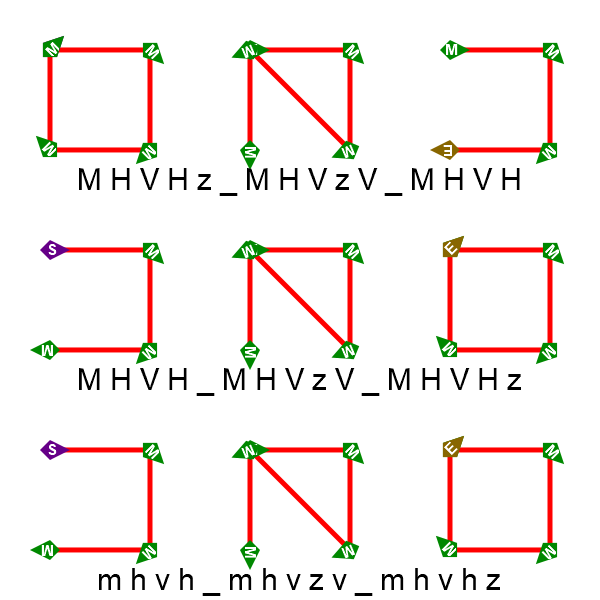
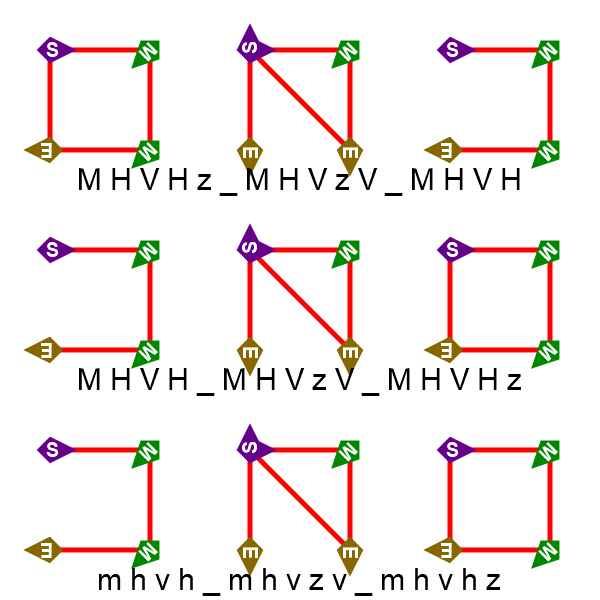
Adding tests & renaming for clarity

diff --git a/sahara/node_vertices_tests/_convert.py b/sahara/node_vertices_tests/_convert.py
@@ -1,17 +1,8 @@
 import glob
 import os
-import importlib.util
-import _show_node_vertices
-
-def import_url(name, url):
-	# https://stackoverflow.com/questions/67631/how-to-import-a-module-given-the-full-path
-	spec = importlib.util.spec_from_file_location(name, url)
-	mod = importlib.util.module_from_spec(spec)
-	spec.loader.exec_module(mod)
-	return mod
 
 image = input('Input image(s): ')
-scripts = input('Scripts [iksv]: ').lower() or 'iksv'
+scripts = input('Scripts [ikmsv]: ').lower() or 'ikmsv'
 if not image:
 	images = glob.glob('*.svg')
 else:
@@ -25,23 +16,25 @@ repo_base = '../../'
 ## Inkscape
 if 'i' in scripts:
 	for image in images:
-		os.system('inkscape --export-png="' + os.path.splitext(image)[0] + '-ink.png" "' + image + '"')
+		os.system('inkscape --export-png="{}" "{}"'.format(os.path.splitext(image)[0] + '-ink.png', image))
 
-## CairoSVG master branch (synced with Kozea/CairoSVG)
+## Kozea/CairoSVG current version
 if 'k' in scripts:
-	cairosvg = import_url('cairosvg', repo_base + '../CairoSVG-kozea/cairosvg/__init__.py')
-	for image in images:
-		out = os.path.splitext(image)[0] + '-kozea.png'
-		cairosvg.svg2png(url=image, write_to=out)
+	csvg_path = os.path.abspath(repo_base + '../CairoSVG-current/').replace('\\','\\\\')
+	img_suffix = 'kozea'
+	vertices_suffix = 'kozea-vertices' if 'v' in scripts else ''
+	os.system('python _run_test.py "{}" "{}" "{}" "{}"'.format(csvg_path, '|'.join(images), img_suffix, vertices_suffix))
 
-## CairoSVG main branch
+## AgC/CairoSVG master branch
+if 'm' in scripts:
+	csvg_path = os.path.abspath(repo_base + '../CairoSVG-master/').replace('\\','\\\\')
+	img_suffix = 'agc-master'
+	vertices_suffix = 'agc-master-vertices' if 'v' in scripts else ''
+	os.system('python _run_test.py "{}" "{}" "{}" "{}"'.format(csvg_path, '|'.join(images), img_suffix, vertices_suffix))
+
+## AgC/CairoSVG main branch
 if 's' in scripts:
-	parse = import_url('cairosvg', repo_base + 'cairosvg/parse/__init__.py')
-	for image in images:
-		out = os.path.splitext(image)[0] + '-agc.png'
-		parse.svg2png(url=image, write_to=out)
-
-## CairoSVG, visualise node.vertices
-if 'v' in scripts:
-	for image in images:
-		_show_node_vertices.main(image)
+	csvg_path = os.path.abspath(repo_base).replace('\\','\\\\')
+	img_suffix = 'agc-main'
+	vertices_suffix = ''
+	os.system('python _run_test.py "{}" "{}" "{}" "{}"'.format(csvg_path, '|'.join(images), img_suffix, vertices_suffix))

diff --git a/sahara/node_vertices_tests/_show_node_vertices.py b/sahara/node_vertices_tests/_show_node_vertices.py
@@ -2,11 +2,6 @@ import math
 import os
 import sys
 import xml.etree.ElementTree as ET
-
-sys.path.insert(0, '../../../CairoSVG-kozea')
-from cairosvg.path import path as csvg_path
-from cairosvg.helpers import size as csvg_size
-from cairosvg.colors import color as csvg_color
 import cairocffi as cairo
 
 bgColour = [1, 1, 1]
@@ -14,7 +9,12 @@ dotColour = [0, 0, 0]
 angleInColour = [0.6, 0, 1]
 angleOutColour = [0, 0.7, 0]
 
-def main(image):
+def main(image, outName=None, cairosvg=None):
+	if not cairosvg:
+		import cairosvg
+	if not outName:
+		outName = os.path.splitext(image)[0] + '-vertices.png'
+
 	## Parse SVG
 	svg = ET.parse(image).getroot()
 	paths = svg.findall('{http://www.w3.org/2000/svg}path')
@@ -29,13 +29,13 @@ def main(image):
 		context.paint()
 
 	for path in paths:
-		node = NodeSurface(surface, context, path.attrib['d'])
-		lineColour = list(csvg_color(path.attrib.get('stroke', '#000')))
+		node = NodeSurface(cairosvg, surface, context, path.attrib['d'])
+		lineColour = list(cairosvg.colors.color(path.attrib.get('stroke', '#000')))
 		lineColour[3] /= 2 # reduce opacity
 		context.set_source_rgba(*lineColour)
 		strokeWidth = float(path.attrib.get('stroke-width', 1))
 		context.set_line_width(strokeWidth)
-		csvg_path(node, node)
+		cairosvg.path.path(node, node)
 		context.stroke()
 
 		## Display node.vertices
@@ -53,16 +53,16 @@ def main(image):
 				showVertex(context, point, angleIn, angleOut, strokeWidth)
 				prev_angles = angles
 
-	surface.write_to_png(os.path.splitext(image)[0] + '-vertices.png')
+	surface.write_to_png(outName)
 
 
 class NodeSurface: # imitates cairosvg.Node and cairosvg.Surface
-	def __init__(self, surface, context, string):
+	def __init__(self, cairosvg, surface, context, string):
 		self.context = context
 		self.context_width = surface.get_width()
 		self.context_height = surface.get_height()
 		self.dpi = 96
-		self.font_size = csvg_size(self, '12pt')
+		self.font_size = cairosvg.helpers.size(self, '12pt')
 		self.d = string
 	def get(self,key,default=None):
 		return getattr(self,key,default)

diff --git a/sahara/node_vertices_tests/_run_test.py b/sahara/node_vertices_tests/_run_test.py
@@ -1,0 +1,18 @@
+import os
+import sys
+import _show_node_vertices
+
+if len(sys.argv) > 1:
+	csvg_path = sys.argv[1]
+	images = sys.argv[2]
+	img_suffix = sys.argv[3]
+	vertices_suffix = sys.argv[4]
+
+	sys.path.insert(0, csvg_path)
+	import cairosvg
+	print('CairoSVG path: ', cairosvg.__path__)
+
+	for image in images.split('|'):
+		cairosvg.svg2png(url=image, write_to=os.path.splitext(image)[0] + '-' + img_suffix + '.png')
+		if vertices_suffix:
+			_show_node_vertices.main(image, os.path.splitext(image)[0] + '-' + vertices_suffix + '.png', cairosvg)

diff --git a/sahara/node_vertices_tests/README.md b/sahara/node_vertices_tests/README.md
@@ -11,41 +11,51 @@ The rightmost images are visualisations of the `node.vertices` array, which is i
 ## Lines
 |     |     |     |
 | :-: | :-: | :-: |
-| ![](lines-ink.png)<br/>**Inkscape** | ![](kozea-2020-11-23/lines-kozea.png)<br/>**Kozea** | ![](kozea-2020-11-23/lines-vertices.png)<br/>**Kozea (vertices)** |
-| ![](lines-agc.png)<br/>**AgC/main**| ![](lines-kozea.png)<br/>**AgC/master**  | ![](lines-vertices.png)<br/>**AgC/master (vertices)** |
+| ![](lines-ink.png)<br/>**Inkscape** | ![]lines-kozea.png)<br/>**Kozea** | ![](lines-kozea-vertices.png)<br/>**Kozea (vertices)** |
+| ![](lines-agc-main.png)<br/>**AgC/main**| ![](lines-agc-master.png)<br/>**AgC/master**  | ![](lines-agc-master-vertices.png)<br/>**AgC/master (vertices)** |
 
 ## Beziers
 This test file includes a few degenerate curves, of which some or all control points coincide with vertices. In the current Kozea version, they result in a mathematically undefined `math.atan2(0,0)` (although that function returns an angle of zero degrees, hence all the arrows to the right in Kozea/vertices). The newer version fixes this by noting that the angles correspond to those of the lower-degree Bezier created by removing those control points. The extreme case, a zero-length segment (including those made with `L` or `A`), does not give correct angles yet.
 |     |     |     |
 | :-: | :-: | :-: |
-| ![](beziers-ink.png)<br/>**Inkscape** | ![](kozea-2020-11-23/beziers-kozea.png)<br/>**Kozea** | ![](kozea-2020-11-23/beziers-vertices.png)<br/>**Kozea (vertices)** |
-| ![](beziers-agc.png)<br/>**AgC/main**| ![](beziers-kozea.png)<br/>**AgC/master**  | ![](beziers-vertices.png)<br/>**AgC/master (vertices)** |
+| ![](beziers-ink.png)<br/>**Inkscape** | ![](beziers-kozea.png)<br/>**Kozea** | ![](beziers-kozea-vertices.png)<br/>**Kozea (vertices)** |
+| ![](beziers-agc-main.png)<br/>**AgC/main**| ![](beziers-agc-master.png)<br/>**AgC/master**  | ![](beziers-agc-master-vertices.png)<br/>**AgC/master (vertices)** |
 
 ## Circular arcs
 In the two arc test files, the central segments of each sub-path are arcs with zero radius, which according to [the SVG specification](https://www.w3.org/Graphics/SVG/1.1/implnote.html#ArcOutOfRangeParameters) should be treated as a straight line. Inkscape [fails to render this](arcs-ink.png) (apparently painting a large solid black or white rectangle instead of the path), so its images were made with versions of the files that use an `L` instead.
 |     |     |     |
 | :-: | :-: | :-: |
-| ![](arcs-ink-fix.png)<br/>**Inkscape** | ![](kozea-2020-11-23/arcs-kozea.png)<br/>**Kozea** | ![](kozea-2020-11-23/arcs-vertices.png)<br/>**Kozea (vertices)** |
-| ![](arcs-agc.png)<br/>**AgC/main**| ![](arcs-kozea.png)<br/>**AgC/master**  | ![](arcs-vertices.png)<br/>**AgC/master (vertices)** |
+| ![](arcs-ink-fix.png)<br/>**Inkscape** | ![](arcs-kozea.png)<br/>**Kozea** | ![](arcs-kozea-vertices.png)<br/>**Kozea (vertices)** |
+| ![](arcs-agc-main.png)<br/>**AgC/main**| ![](arcs-agc-master.png)<br/>**AgC/master**  | ![](arcs-agc-master-vertices.png)<br/>**AgC/master (vertices)** |
 
 ## Elliptic arcs
 |     |     |     |
 | :-: | :-: | :-: |
-| ![](elliptic-ink-fix.png)<br/>**Inkscape** | ![](kozea-2020-11-23/elliptic-kozea.png)<br/>**Kozea** | ![](kozea-2020-11-23/elliptic-vertices.png)<br/>**Kozea (vertices)** |
-| ![](elliptic-agc.png)<br/>**AgC/main**| ![](elliptic-kozea.png)<br/>**AgC/master**  | ![](elliptic-vertices.png)<br/>**AgC/master (vertices)** |
+| ![](elliptic-ink-fix.png)<br/>**Inkscape** | ![](elliptic-kozea.png)<br/>**Kozea** | ![](elliptic-kozea-vertices.png)<br/>**Kozea (vertices)** |
+| ![](elliptic-agc-main.png)<br/>**AgC/main**| ![](elliptic-agc-master.png)<br/>**AgC/master**  | ![](elliptic-agc-master-vertices.png)<br/>**AgC/master (vertices)** |
 
 ## Moveto, closepath and marker types
 |     |     |     |
 | :-: | :-: | :-: |
-| ![](start_end-ink.png)<br/>**Inkscape** | ![](kozea-2020-11-23/start_end-kozea.png)<br/>**Kozea** | ![](kozea-2020-11-23/start_end-vertices.png)<br/>**Kozea (vertices)** |
-| ![](start_end-agc.png)<br/>**AgC/main**| ![](start_end-kozea.png)<br/>**AgC/master**  | ![](start_end-vertices.png)<br/>**AgC/master (vertices)** |
+| ![](start_end-ink.png)<br/>**Inkscape** | ![](start_end-kozea.png)<br/>**Kozea** | ![](start_end-kozea-vertices.png)<br/>**Kozea (vertices)** |
+| ![](start_end-agc-main.png)<br/>**AgC/main**| ![](start_end-agc-master.png)<br/>**AgC/master**  | ![](start_end-agc-master-vertices.png)<br/>**AgC/master (vertices)** |
 
-## Discrepancies with Inkscape
+## Closing vertex angles & marker overlap
 |     |     |     |
 | :-: | :-: | :-: |
-| ![](start_end-ink.png)<br/>**Inkscape** | ![](start_end-firefox.png)<br/>**Firefox** | ![](start_end-kozea.png)<br/>**AgC/master** |
-| ![](overlap-ink.png)<br/>**Inkscape** | ![](overlap-firefox.png)<br/>**Firefox** | ![](overlap-kozea.png)<br/>**AgC/master** |
+| ![](start_end-ink.png)<br/>**Inkscape** | ![](start_end-firefox.png)<br/>**Firefox** | ![](start_end-agc-master.png)<br/>**AgC/master** |
+| ![](overlap-ink.png)<br/>**Inkscape** | ![](overlap-firefox.png)<br/>**Firefox** | ![](overlap-agc-master.png)<br/>**AgC/master** |
 
-On the initial vertex of closed sub-paths, Inkscape doesn't average the angles of the adjoining segments as [the specification](https://www.w3.org/Graphics/SVG/1.1/painting.html#Markers) stipulates (which AgC/master follows, as do [Firefox] and the few other browsers I've tried), but instead places two markers in the direction of the first and last segments, as if the path had been "manually closed" with an `L`.
+A note on a discrepancy between Inkscape and CairoSVG: on the initial vertex of closed sub-paths, Inkscape doesn't average the angles of the adjoining segments as [the specification](https://www.w3.org/Graphics/SVG/1.1/painting.html#Markers) stipulates (which AgC/master follows, as do Firefox and the few other browsers I've tried), but instead places two markers in the direction of the first and last segments, as if the path had been "manually closed" with an `L`.
 
-Contrary to what I originally assumed, Firefox actually also draws two overlapping markers, although obviously only one will be visible if their shape and orientation are the same. This is in line with the specification ("for a 'path' element which ends with a closed sub-path, (...) if 'marker-end' does not equal none, then it is possible that two markers will be rendered on the given vertex."), and is made clear in the second row of the comparison, in which the three marker types (start, mid and end) use differently sized circles.
+Contrary to what I originally assumed, Firefox actually also draws two overlapping markers, although obviously only one will be visible if their shape and orientation are the same. This behaviour is in line with the specification ("for a 'path' element which ends with a closed sub-path, (...) if 'marker-end' does not equal none, then it is possible that two markers will be rendered on the given vertex."), and is made clear in the second row of the comparison, in which the three marker types (start, mid and end) use differently sized circles.
+
+The seemingly missing markers in the bottom Inkscape image are due to an inconsistency in the drawing order. Whereas Firefox and AgC/master draw overlapping markers in order of appearance in the path (i.e., start below mid, mid below end); Inkscape places the purple start marker on top of the smaller green mid marker (and likewise for mid and end). The specification isn't clear on this as far as I can see, although the former behaviour seems more sensible.
+
+## Marker size & gradients
+|     |     |     |
+| :-: | :-: | :-: |
+| ![](gradient-ink-fix.png)<br/>**Inkscape** | ![](gradient-kozea.png)<br/>**Kozea** | ![](gradient-kozea-vertices.png)<br/>**Kozea (vertices)** |
+| ![](gradient-agc-main.png)<br/>**AgC/main**| ![](gradient-agc-master.png)<br/>**AgC/master**  | ![](gradient-agc-master-vertices.png)<br/>**AgC/master (vertices)** |
+
+[I removed](https://github.com/SilverCardioid/CairoSVG/commit/0835fc88780de1272eeb9181a02986d4289146cc) a section of code that scales markers based on their bounding box after noticing an issue with the sizes of markers (the testcase in the previous section was mistakenly [drawn with equally sized markers](overlap-kozea.png)). This part was [added in 2016](https://github.com/Kozea/CairoSVG/pull/89) in a series of edits relating to gradients, though what exact problem it was intended to fix isn't clear to me. This testcase renders the gradient on the markers correctly.
